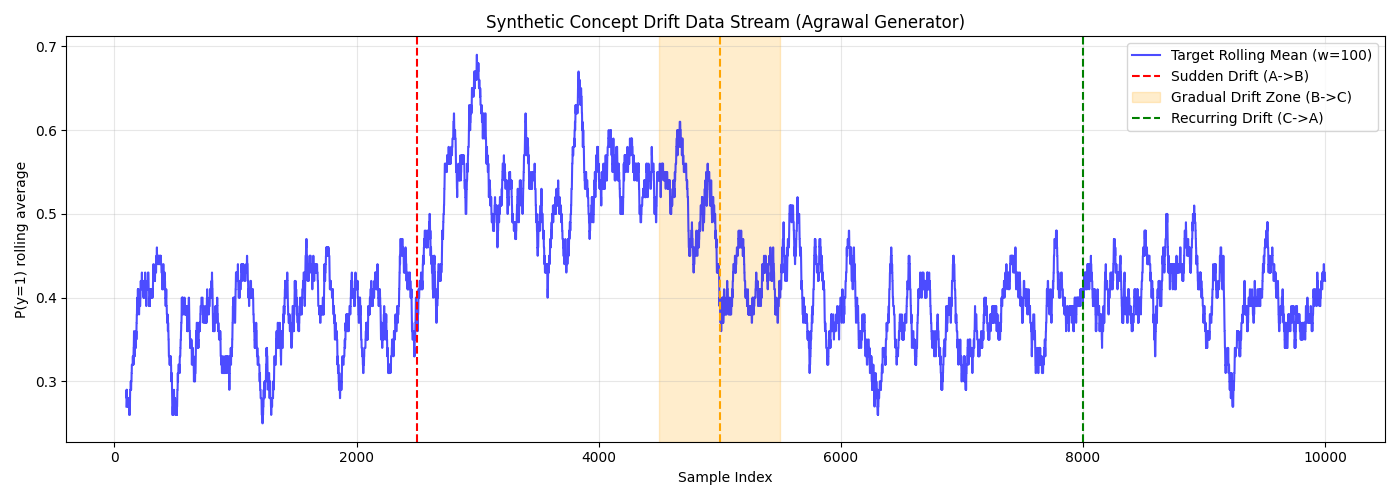
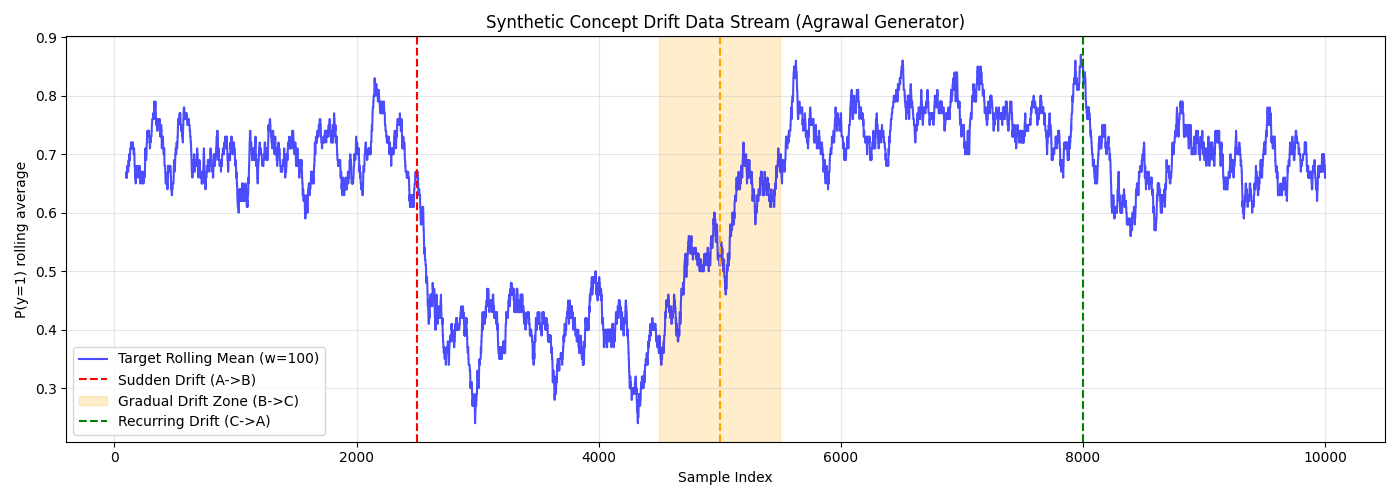
11:46

diff --git a/generate_drift_dataset.py b/generate_drift_dataset.py
@@ -35,15 +35,15 @@ def create_complex_drift_stream(n_samples: int = 10000, seed: int = 42) -> Tuple
     if not RIVER_AVAILABLE:
         raise ImportError("River is required to generate this dataset.")
         
-    print("Generating complex stream with Sudden, Gradual, and Recurring Drifts...")
+    print("Generating complex stream with Sudden, Gradual, and Recurring Drifts (SEA)...")
     
-    # 1. Define base concepts using Agrawal generators
-    # Agrawal generator has 10 built-in classification functions representing different concepts.
-    concept_A = iter(synth.Agrawal(classification_function=1, seed=seed))
-    concept_B = iter(synth.Agrawal(classification_function=2, seed=seed+1))
-    concept_C = iter(synth.Agrawal(classification_function=3, seed=seed+2))
+    # 1. Define base concepts using SEA generators
+    # SEA generator has 4 variants representing different concepts.
+    concept_A = iter(synth.SEA(variant=0, seed=seed))
+    concept_B = iter(synth.SEA(variant=1, seed=seed+1))
+    concept_C = iter(synth.SEA(variant=2, seed=seed+2))
     # The recurring concept A
-    concept_A_rep = iter(synth.Agrawal(classification_function=1, seed=seed+3))
+    concept_A_rep = iter(synth.SEA(variant=0, seed=seed+3))
 
     # 2. Chain streams together using ConceptDriftStream
     # First: Concept A -> Sudden -> Concept B
@@ -69,11 +69,11 @@ def create_complex_drift_stream(n_samples: int = 10000, seed: int = 42) -> Tuple
             # Concept A
             x, y = next(concept_A)
         elif 2500 <= i < 4500:
-            # Concept B (Post sudden drift A->B)
+            # Concept B (Post sudden drift A->B, inverted labels to make it huge)
             x, y = next(concept_B)
+            y = 1 - y
         elif 4500 <= i < 5500:
             # Gradual shift B -> C
-            # Using sigmoid prob to mimic ConceptDriftStream
             import math
             v = -4.0 * float(i - 5000) / float(1000)
             prob_C = 1.0 / (1.0 + math.exp(v))
@@ -81,6 +81,7 @@ def create_complex_drift_stream(n_samples: int = 10000, seed: int = 42) -> Tuple
                 x, y = next(concept_C)
             else:
                 x, y = next(concept_B)
+                y = 1 - y
         elif 5500 <= i < 8000:
             # Concept C
             x, y = next(concept_C)
@@ -113,7 +114,7 @@ def create_complex_drift_stream(n_samples: int = 10000, seed: int = 42) -> Tuple
     
     # Provide the raw numpy arrays for your pipeline
     X_array = df_X.values
-    y_array = df_y.values
+    y_array = df_y.values.astype(int)
     
     return X_array, y_array, metadata
 

diff --git a/detectors/gradual.py b/detectors/gradual.py
@@ -10,7 +10,7 @@ from collections import deque
 class DDM:
     """Drift Detection Method (DDM)."""
     
-    def __init__(self, min_samples: int = 30, warning_level: float = 2.0, drift_level: float = 3.0):
+    def __init__(self, min_samples: int = 100, warning_level: float = 2.0, drift_level: float = 3.0):
         self.min_samples = min_samples
         self.warning_level = warning_level
         self.drift_level = drift_level
@@ -48,7 +48,7 @@ class DDM:
 class HDDM_A:
     """Hoeffding Drift Detection Method - A (HDDM-A)."""
     
-    def __init__(self, min_samples: int = 30, delta: float = 0.002, lambda_: float = 0.999):
+    def __init__(self, min_samples: int = 100, delta: float = 0.005, lambda_: float = 0.999):
         self.min_samples = min_samples
         self.delta = delta
         self.lambda_ = lambda_
@@ -83,11 +83,11 @@ class PageHinkley:
     
     def __init__(
         self,
-        window_size: int = 100,
-        delta: float = 0.01,
+        window_size: int = 150,
+        delta: float = 0.05,
         lambda_: float = 0.99,
         threshold: float = 50.0,
-        min_samples: int = 30,
+        min_samples: int = 100,
     ):
         self.window_size = window_size
         self.delta = delta
@@ -124,7 +124,7 @@ class PageHinkley:
 class ADWIN:
     """Adaptive Windowing (ADWIN) for drift detection."""
     
-    def __init__(self, delta: float = 0.002, max_buckets: int = 5):
+    def __init__(self, delta: float = 0.01, max_buckets: int = 5):
         self.delta = delta
         self.max_buckets = max_buckets
         self._buckets: List[Tuple[int, float, float]] = []  # (count, sum, sum_sq)

diff --git a/src/pipeline.py b/src/pipeline.py
@@ -37,10 +37,10 @@ class ConceptDriftPipeline:
         self.buffer = StreamBuffer(max_len=3000)
         self.sudden_detector = SuddenDriftDetector(
             window_size=self.config.sudden_window_size,
-            min_samples=20,
-            ensemble_strategy="any",
+            min_samples=30,
+            ensemble_strategy="majority",
         )
-        self.gradual_detector = GradualDriftDetector(ensemble_strategy="any")
+        self.gradual_detector = GradualDriftDetector(ensemble_strategy="majority")
         self.distribution_detector = DistributionModule(window_size=100)
         self.concept_memory = ConceptMemory(recurrence_threshold=self.config.recurrence_threshold)
         self.model_pool = ModelPool(in_memory=True)
@@ -48,7 +48,7 @@ class ConceptDriftPipeline:
         self.detections: List[DriftDetection] = []
         self._step = 0
         self._lock_out = 0  # Cooling period
-        self._lock_out_duration = 300  # Examples of lock-out time
+        self._lock_out_duration = 500  # Examples of lock-out time
         self._batch_X: List[np.ndarray] = []
         self._batch_y: List[float] = []
         self._warm = False

diff --git a/main.py b/main.py
@@ -32,9 +32,9 @@ def main():
     config = PipelineConfig(
         sudden_window_size=50,
         gradual_window_size=100,
-        update_batch_size=250, # Needs to be large enough to not mask drift instantly
+        update_batch_size=1500,
         recurrence_threshold=0.15,
-        model_type="linear" # Using Linear (Logistic / SGD) as base model
+        model_type="linear" # Switch back to linear since SEA is linearly separable
     )
     pipeline = ConceptDriftPipeline(config=config)
     

diff --git a/src/prediction_model.py b/src/prediction_model.py
@@ -19,8 +19,9 @@ def _make_linear_model():
 
 def _make_nonlinear_model():
     try:
-        from sklearn.neural_network import MLPClassifier
-        return MLPClassifier(hidden_layer_sizes=(32, 16), max_iter=1, warm_start=True, random_state=42)
+        from sklearn.naive_bayes import GaussianNB
+        # Gaussian Naive Bayes supports partial_fit and can model non-linear boundaries probabilistically.
+        return GaussianNB()
     except ImportError:
         return _make_linear_model()
 
